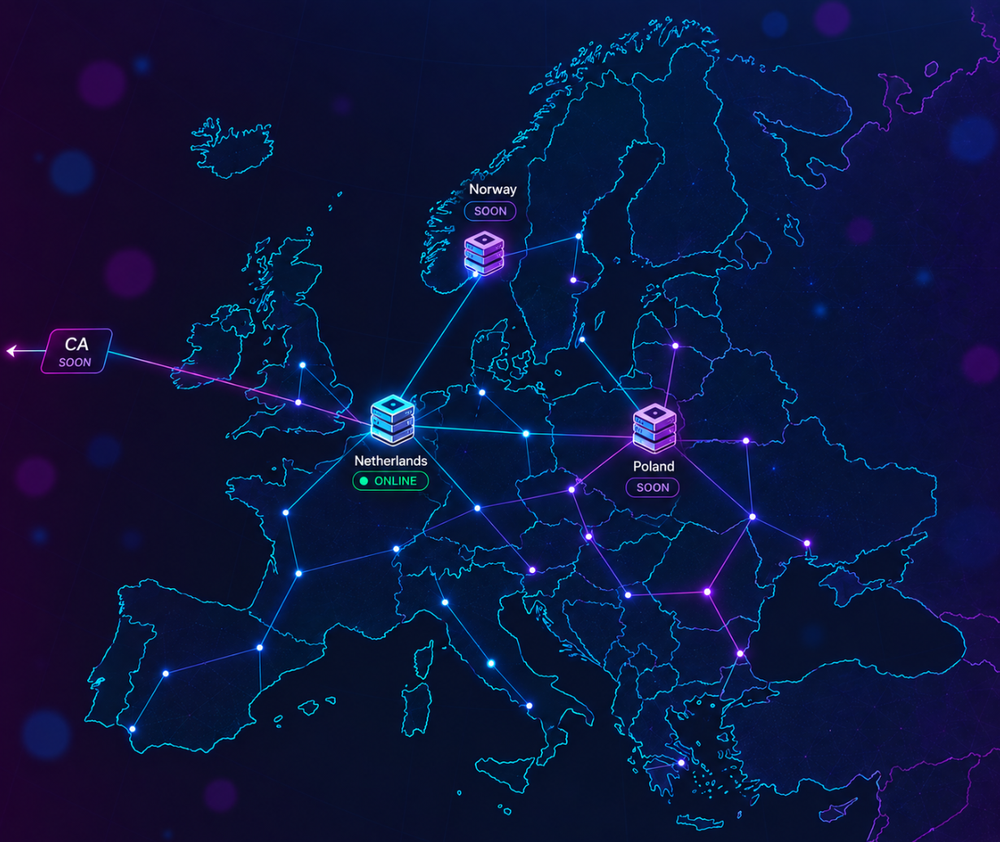
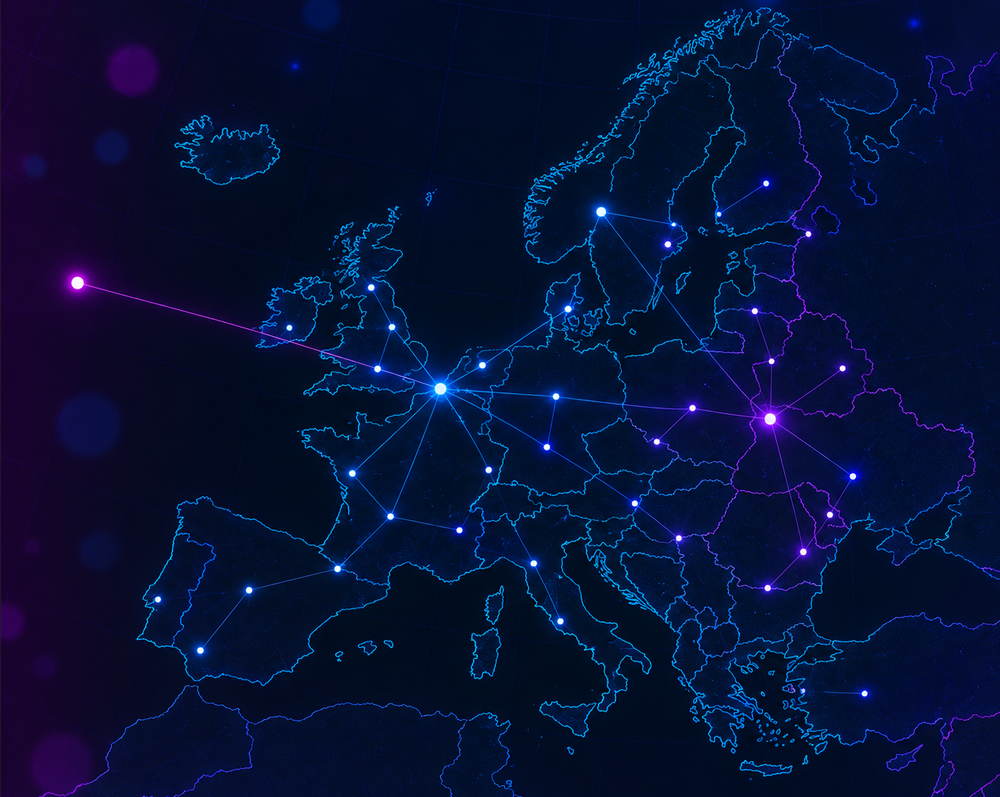
Swap hero map for clean label-free reference image, recalibrate dots
The new screenshot has no baked-in text, so the old label-masking
overlays are no longer needed. Re-derived each location's x/y from the
image's actual bright-dot centroids for pixel-precise placement.

diff --git a/app/templates/index.html b/app/templates/index.html
@@ -32,21 +32,12 @@
             src="{{ url_for('static', filename='img/hero-network-map.png') }}"
             alt=""
             width="1000"
-            height="842"
+            height="797"
             loading="eager"
           >
         </picture>
 
         <div class="hero-network-vignette"></div>
-
-        <!-- The source photo has its own baked-in city labels ("CA",
-             "Netherlands", "Norway", "Poland") that survive the dimming
-             filter above - blot them out so nothing but our own
-             data-driven labels is readable. -->
-        <div class="hero-network-image-mask" style="--nx: 7.8; --ny: 41.5;"></div>
-        <div class="hero-network-image-mask" style="--nx: 39; --ny: 57;"></div>
-        <div class="hero-network-image-mask" style="--nx: 49; --ny: 22;"></div>
-        <div class="hero-network-image-mask" style="--nx: 65; --ny: 57;"></div>
 
         <svg class="hero-network-lines" viewBox="0 0 100 100" preserveAspectRatio="none">
           <defs>

diff --git a/app/static/css/style.css b/app/static/css/style.css
@@ -359,23 +359,6 @@ section:last-of-type {
   pointer-events: none;
 }
 
-.hero-network-image-mask {
-  position: absolute;
-  left: calc(var(--nx) * 1%);
-  top: calc(var(--ny) * 1%);
-  transform: translate(-50%, -50%);
-  width: 26%;
-  height: 20%;
-  background: radial-gradient(
-    closest-side,
-    rgba(8, 10, 22, 0.97) 0%,
-    rgba(8, 10, 22, 0.97) 60%,
-    rgba(8, 10, 22, 0) 100%
-  );
-  filter: blur(2px);
-  pointer-events: none;
-}
-
 .hero-network-lines {
   position: absolute;
   inset: 0;

diff --git a/app/constants.py b/app/constants.py
@@ -13,7 +13,7 @@ SERVER_LOCATIONS = [
         "city": "Amsterdam",
         "country": "Нидерланды",
         "flag": "nl",
-        "x": 45,
+        "x": 44,
         "y": 49,
         "status": "online",
         "ping": "8 ms",
@@ -26,8 +26,8 @@ SERVER_LOCATIONS = [
         "city": "Frankfurt",
         "country": "Германия",
         "flag": "de",
-        "x": 52,
-        "y": 57,
+        "x": 49,
+        "y": 59,
         "status": "soon",
     },
     {
@@ -35,8 +35,8 @@ SERVER_LOCATIONS = [
         "city": "Warsaw",
         "country": "Польша",
         "flag": "pl",
-        "x": 64,
-        "y": 49,
+        "x": 77,
+        "y": 53,
         "status": "soon",
     },
     {
@@ -44,8 +44,8 @@ SERVER_LOCATIONS = [
         "city": "Oslo",
         "country": "Норвегия",
         "flag": "no",
-        "x": 47.5,
-        "y": 30,
+        "x": 60,
+        "y": 27,
         "status": "soon",
     },
     {
@@ -53,8 +53,8 @@ SERVER_LOCATIONS = [
         "city": "New York",
         "country": "США",
         "flag": "us",
-        "x": 3,
-        "y": 44,
+        "x": 8,
+        "y": 35,
         "status": "soon",
     },
 ]
